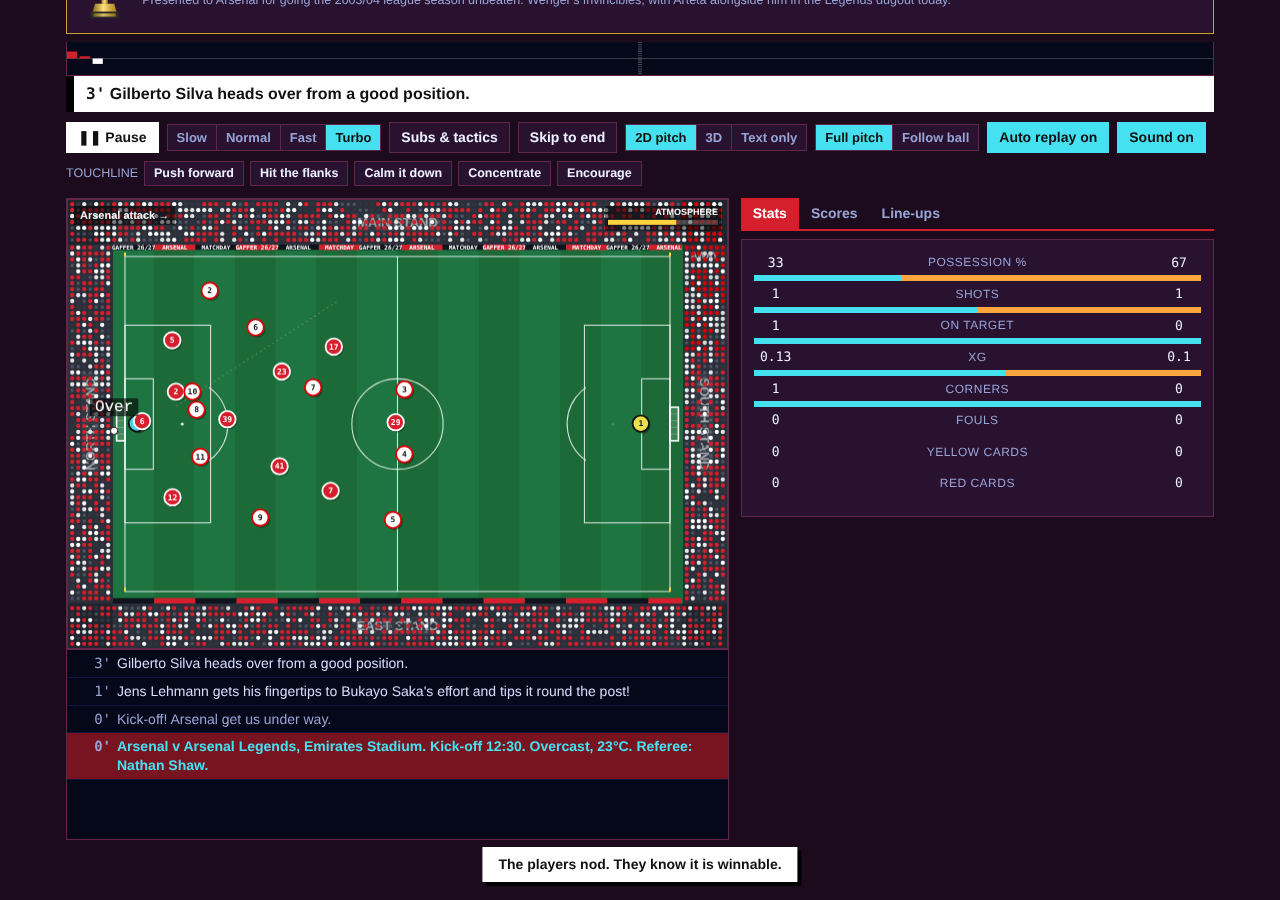
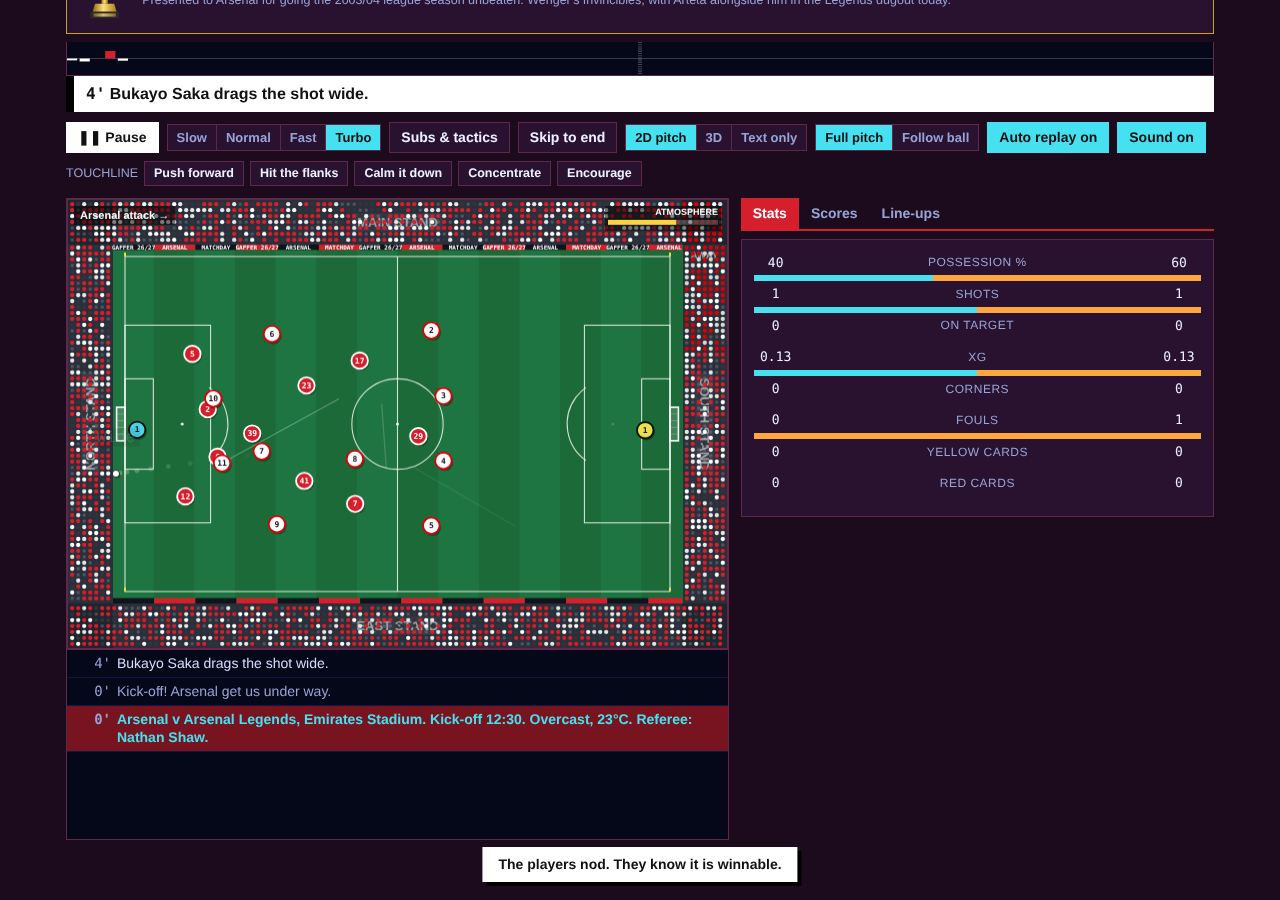
News for doubles, trebles, quadruples and beyond; cup ties, knockouts and friendlies no longer talk about league points
Claude-Session: https://claude.ai/code/session_01Axcqbbzp4druJBVmm3PMMF

diff --git a/gaffer.html b/gaffer.html
@@ -9328,10 +9328,10 @@ function interviewFor(M) {
   let q;
   if (red) q = `You had a man sent off. Was it the right decision from the referee?`;
   else if (won && gf - ga >= 3) q = `A big win. Was this your best performance of the season?`;
-  else if (won) q = `Three points. What pleased you most today?`;
+  else if (won) q = fxHasPoints(G.fx[M.fid] || { comp: M.comp }) ? `Three points. What pleased you most today?` : `A win today. What pleased you most?`;
   else if (lost && ga - gf >= 3) q = `That was a heavy defeat. What went wrong?`;
   else if (lost) q = `A disappointing result. How do you explain it?`;
-  else q = `A point today. Is that a fair result?`;
+  else q = fxHasPoints(G.fx[M.fid] || { comp: M.comp }) ? `A point today. Is that a fair result?` : `All square today. Is that a fair result?`;
   return { q, won, lost, star, worst, red };
 }
 function interviewAnswer(k) {
@@ -16964,6 +16964,42 @@ quickScore = function (h, a, neutral) {
   let k = 0; while (Math.abs(r[0] - r[1]) >= 4 && k++ < 4 && R.chance(k === 1 ? .65 : .5)) { if (r[0] > r[1]) r[0]--; else r[1]--; }
   const cap = 6 + (R.chance(.1) ? 1 : 0); if (r[0] - r[1] > cap) r[0] = r[1] + cap; if (r[1] - r[0] > cap) r[1] = r[0] + cap;
   return r;
+};
+
+// ---------- league points only where there are points: cup ties, knockouts and friendlies get cup wording ----------
+function fxHasPoints(f) {
+  if (!f) return true; const c = f.comp, r = String(f.rnd || '');
+  if (LEAGUE_COMPS.includes(c)) return true;
+  if (['UCL', 'UEL', 'UECL'].includes(c)) return /Matchday|League phase|Group/i.test(r);
+  if (['UNL', 'EQ', 'WCQ'].includes(c)) return true;
+  if (['WC', 'EURO', 'CA', 'AFCON', 'ACUP'].includes(c)) return /Group|Matchday/i.test(r);
+  return false;
+}
+let _noPts = false;
+const NOPTS_RX = [[/\bEasiest three points\b/gi, 'Easiest win'], [/\bThanks for the points\b/gi, 'Thanks for the easy night'], [/\bThree points, job done\b/g, 'Job done'], [/\bthree points\b/gi, 'the win'], [/\bA point\. Could be/g, 'All square. Could be'], [/\bTwo points dropped, simple as that\b/g, 'Should have won that, simple as that'], [/\bTwo points dropped\b/gi, 'Should have won that'], [/\bdropped points\b/gi, 'slipped up'], [/\bdrop points\b/gi, 'slip up'], [/\bCost us points\b/gi, 'Cost us the tie'], [/\bA point today\b/g, 'All square today']];
+function ptsFix(t) { if (!_noPts || typeof t !== 'string') return t; for (const [a, b] of NOPTS_RX) t = t.replace(a, b); return t; }
+const _postPL = post;
+post = function (o) { if (_noPts && o) o.t = ptsFix(o.t); return _postPL(o); };
+const _repPL = reply;
+reply = function (p, tid, text, who) { return _repPL(p, tid, ptsFix(text), who); };
+const _pmPL = postMatch;
+postMatch = function (f, pre) { const was = _noPts; _noPts = !fxHasPoints(f); try { return _pmPL(f, pre); } finally { _noPts = was; } };
+
+// ---------- doubles, trebles, quadruples ... ----------
+const MULTI = ['', '', 'Double', 'Treble', 'Quadruple', 'Quintuple', 'Sextuple', 'Septuple'];
+function seasonTrophies(tid) { const s = seasonLabel(G.year) + ' '; return (G.honours[tid] || []).filter(x => x.startsWith(s)).map(x => x.slice(s.length)).filter(n => !/Fair Play|gold trophy|Manager of|Player of/i.test(n)); }
+function multiStory(tid, list) {
+  const n = list.length; const word = MULTI[n] || `${n}-trophy haul`; const t = T(tid); const dom = list.every(x => !/Champions League|Europa|Conference|Cup Winners|Club World|Super Cup/.test(x));
+  const lg = list.some(x => /Premier League|La Liga|Serie A|Bundesliga|Ligue 1|Saudi Pro League|Championship/.test(x));
+  const label = dom && n === 2 ? (lg ? 'domestic Double' : 'cup Double') : dom && n === 3 ? 'domestic Treble' : word;
+  news(`${t.name}: the ${label}!`, `${t.name} have won the ${label} in ${seasonLabel(G.year)}: ${list.join(', ')}. ${n >= 4 ? `A ${word.toLowerCase()} is something very few clubs in history have achieved.` : n === 3 ? 'A treble season goes straight into the club\'s history books.' : 'Two trophies in one season.'} ${tid === G.user && n >= 3 ? `${G.mgr} joins the club's greatest managers.` : ''}`, tid, true);
+  try { const p = fanPost(tid, `${label.toUpperCase()} 🏆${'🏆'.repeat(Math.min(n, 6) - 1)} ${list.join(' + ')}. Say it with me: ${word.toUpperCase()}!!!`, { big: true, u: tid === G.user ? 1 : 0 }); const rv = typeof rivalsOf === 'function' ? rivalsOf(tid)[0] : null; if (rv) reply(p, rv, R.pick(['Calm down, it\'s only a ' + word.toLowerCase(), 'Asterisk*', 'Wake me up when it\'s a ' + (MULTI[n + 1] || 'bigger haul').toLowerCase() + ' 🙄'])); trend(word, 4); } catch (e) { }
+  if (tid === G.user) { G.board = clamp((G.board || 50) + 4, 0, 100); G.fans = clamp((G.fans ?? 60) + 5, 0, 100); }
+}
+const _honPL = honour;
+honour = function (tid, name) {
+  _honPL(tid, name);
+  try { const t = T(tid); if (!t || t.lite || t.nat || /Fair Play|gold trophy/i.test(name)) return; const list = seasonTrophies(tid); if (list.length >= 2) multiStory(tid, list); } catch (e) { console.error(e); }
 };
 
 // md3d.js: 3D matchday view. A third option next to "2D pitch" and "Text only". It draws the same live scene as the

diff --git a/index.html b/index.html
@@ -9343,10 +9343,10 @@ function interviewFor(M) {
   let q;
   if (red) q = `You had a man sent off. Was it the right decision from the referee?`;
   else if (won && gf - ga >= 3) q = `A big win. Was this your best performance of the season?`;
-  else if (won) q = `Three points. What pleased you most today?`;
+  else if (won) q = fxHasPoints(G.fx[M.fid] || { comp: M.comp }) ? `Three points. What pleased you most today?` : `A win today. What pleased you most?`;
   else if (lost && ga - gf >= 3) q = `That was a heavy defeat. What went wrong?`;
   else if (lost) q = `A disappointing result. How do you explain it?`;
-  else q = `A point today. Is that a fair result?`;
+  else q = fxHasPoints(G.fx[M.fid] || { comp: M.comp }) ? `A point today. Is that a fair result?` : `All square today. Is that a fair result?`;
   return { q, won, lost, star, worst, red };
 }
 function interviewAnswer(k) {
@@ -16979,6 +16979,42 @@ quickScore = function (h, a, neutral) {
   let k = 0; while (Math.abs(r[0] - r[1]) >= 4 && k++ < 4 && R.chance(k === 1 ? .65 : .5)) { if (r[0] > r[1]) r[0]--; else r[1]--; }
   const cap = 6 + (R.chance(.1) ? 1 : 0); if (r[0] - r[1] > cap) r[0] = r[1] + cap; if (r[1] - r[0] > cap) r[1] = r[0] + cap;
   return r;
+};
+
+// ---------- league points only where there are points: cup ties, knockouts and friendlies get cup wording ----------
+function fxHasPoints(f) {
+  if (!f) return true; const c = f.comp, r = String(f.rnd || '');
+  if (LEAGUE_COMPS.includes(c)) return true;
+  if (['UCL', 'UEL', 'UECL'].includes(c)) return /Matchday|League phase|Group/i.test(r);
+  if (['UNL', 'EQ', 'WCQ'].includes(c)) return true;
+  if (['WC', 'EURO', 'CA', 'AFCON', 'ACUP'].includes(c)) return /Group|Matchday/i.test(r);
+  return false;
+}
+let _noPts = false;
+const NOPTS_RX = [[/\bEasiest three points\b/gi, 'Easiest win'], [/\bThanks for the points\b/gi, 'Thanks for the easy night'], [/\bThree points, job done\b/g, 'Job done'], [/\bthree points\b/gi, 'the win'], [/\bA point\. Could be/g, 'All square. Could be'], [/\bTwo points dropped, simple as that\b/g, 'Should have won that, simple as that'], [/\bTwo points dropped\b/gi, 'Should have won that'], [/\bdropped points\b/gi, 'slipped up'], [/\bdrop points\b/gi, 'slip up'], [/\bCost us points\b/gi, 'Cost us the tie'], [/\bA point today\b/g, 'All square today']];
+function ptsFix(t) { if (!_noPts || typeof t !== 'string') return t; for (const [a, b] of NOPTS_RX) t = t.replace(a, b); return t; }
+const _postPL = post;
+post = function (o) { if (_noPts && o) o.t = ptsFix(o.t); return _postPL(o); };
+const _repPL = reply;
+reply = function (p, tid, text, who) { return _repPL(p, tid, ptsFix(text), who); };
+const _pmPL = postMatch;
+postMatch = function (f, pre) { const was = _noPts; _noPts = !fxHasPoints(f); try { return _pmPL(f, pre); } finally { _noPts = was; } };
+
+// ---------- doubles, trebles, quadruples ... ----------
+const MULTI = ['', '', 'Double', 'Treble', 'Quadruple', 'Quintuple', 'Sextuple', 'Septuple'];
+function seasonTrophies(tid) { const s = seasonLabel(G.year) + ' '; return (G.honours[tid] || []).filter(x => x.startsWith(s)).map(x => x.slice(s.length)).filter(n => !/Fair Play|gold trophy|Manager of|Player of/i.test(n)); }
+function multiStory(tid, list) {
+  const n = list.length; const word = MULTI[n] || `${n}-trophy haul`; const t = T(tid); const dom = list.every(x => !/Champions League|Europa|Conference|Cup Winners|Club World|Super Cup/.test(x));
+  const lg = list.some(x => /Premier League|La Liga|Serie A|Bundesliga|Ligue 1|Saudi Pro League|Championship/.test(x));
+  const label = dom && n === 2 ? (lg ? 'domestic Double' : 'cup Double') : dom && n === 3 ? 'domestic Treble' : word;
+  news(`${t.name}: the ${label}!`, `${t.name} have won the ${label} in ${seasonLabel(G.year)}: ${list.join(', ')}. ${n >= 4 ? `A ${word.toLowerCase()} is something very few clubs in history have achieved.` : n === 3 ? 'A treble season goes straight into the club\'s history books.' : 'Two trophies in one season.'} ${tid === G.user && n >= 3 ? `${G.mgr} joins the club's greatest managers.` : ''}`, tid, true);
+  try { const p = fanPost(tid, `${label.toUpperCase()} 🏆${'🏆'.repeat(Math.min(n, 6) - 1)} ${list.join(' + ')}. Say it with me: ${word.toUpperCase()}!!!`, { big: true, u: tid === G.user ? 1 : 0 }); const rv = typeof rivalsOf === 'function' ? rivalsOf(tid)[0] : null; if (rv) reply(p, rv, R.pick(['Calm down, it\'s only a ' + word.toLowerCase(), 'Asterisk*', 'Wake me up when it\'s a ' + (MULTI[n + 1] || 'bigger haul').toLowerCase() + ' 🙄'])); trend(word, 4); } catch (e) { }
+  if (tid === G.user) { G.board = clamp((G.board || 50) + 4, 0, 100); G.fans = clamp((G.fans ?? 60) + 5, 0, 100); }
+}
+const _honPL = honour;
+honour = function (tid, name) {
+  _honPL(tid, name);
+  try { const t = T(tid); if (!t || t.lite || t.nat || /Fair Play|gold trophy/i.test(name)) return; const list = seasonTrophies(tid); if (list.length >= 2) multiStory(tid, list); } catch (e) { console.error(e); }
 };
 
 // md3d.js: 3D matchday view. A third option next to "2D pitch" and "Text only". It draws the same live scene as the

diff --git a/wrap.html b/wrap.html
@@ -9328,10 +9328,10 @@ function interviewFor(M) {
   let q;
   if (red) q = `You had a man sent off. Was it the right decision from the referee?`;
   else if (won && gf - ga >= 3) q = `A big win. Was this your best performance of the season?`;
-  else if (won) q = `Three points. What pleased you most today?`;
+  else if (won) q = fxHasPoints(G.fx[M.fid] || { comp: M.comp }) ? `Three points. What pleased you most today?` : `A win today. What pleased you most?`;
   else if (lost && ga - gf >= 3) q = `That was a heavy defeat. What went wrong?`;
   else if (lost) q = `A disappointing result. How do you explain it?`;
-  else q = `A point today. Is that a fair result?`;
+  else q = fxHasPoints(G.fx[M.fid] || { comp: M.comp }) ? `A point today. Is that a fair result?` : `All square today. Is that a fair result?`;
   return { q, won, lost, star, worst, red };
 }
 function interviewAnswer(k) {
@@ -16964,6 +16964,42 @@ quickScore = function (h, a, neutral) {
   let k = 0; while (Math.abs(r[0] - r[1]) >= 4 && k++ < 4 && R.chance(k === 1 ? .65 : .5)) { if (r[0] > r[1]) r[0]--; else r[1]--; }
   const cap = 6 + (R.chance(.1) ? 1 : 0); if (r[0] - r[1] > cap) r[0] = r[1] + cap; if (r[1] - r[0] > cap) r[1] = r[0] + cap;
   return r;
+};
+
+// ---------- league points only where there are points: cup ties, knockouts and friendlies get cup wording ----------
+function fxHasPoints(f) {
+  if (!f) return true; const c = f.comp, r = String(f.rnd || '');
+  if (LEAGUE_COMPS.includes(c)) return true;
+  if (['UCL', 'UEL', 'UECL'].includes(c)) return /Matchday|League phase|Group/i.test(r);
+  if (['UNL', 'EQ', 'WCQ'].includes(c)) return true;
+  if (['WC', 'EURO', 'CA', 'AFCON', 'ACUP'].includes(c)) return /Group|Matchday/i.test(r);
+  return false;
+}
+let _noPts = false;
+const NOPTS_RX = [[/\bEasiest three points\b/gi, 'Easiest win'], [/\bThanks for the points\b/gi, 'Thanks for the easy night'], [/\bThree points, job done\b/g, 'Job done'], [/\bthree points\b/gi, 'the win'], [/\bA point\. Could be/g, 'All square. Could be'], [/\bTwo points dropped, simple as that\b/g, 'Should have won that, simple as that'], [/\bTwo points dropped\b/gi, 'Should have won that'], [/\bdropped points\b/gi, 'slipped up'], [/\bdrop points\b/gi, 'slip up'], [/\bCost us points\b/gi, 'Cost us the tie'], [/\bA point today\b/g, 'All square today']];
+function ptsFix(t) { if (!_noPts || typeof t !== 'string') return t; for (const [a, b] of NOPTS_RX) t = t.replace(a, b); return t; }
+const _postPL = post;
+post = function (o) { if (_noPts && o) o.t = ptsFix(o.t); return _postPL(o); };
+const _repPL = reply;
+reply = function (p, tid, text, who) { return _repPL(p, tid, ptsFix(text), who); };
+const _pmPL = postMatch;
+postMatch = function (f, pre) { const was = _noPts; _noPts = !fxHasPoints(f); try { return _pmPL(f, pre); } finally { _noPts = was; } };
+
+// ---------- doubles, trebles, quadruples ... ----------
+const MULTI = ['', '', 'Double', 'Treble', 'Quadruple', 'Quintuple', 'Sextuple', 'Septuple'];
+function seasonTrophies(tid) { const s = seasonLabel(G.year) + ' '; return (G.honours[tid] || []).filter(x => x.startsWith(s)).map(x => x.slice(s.length)).filter(n => !/Fair Play|gold trophy|Manager of|Player of/i.test(n)); }
+function multiStory(tid, list) {
+  const n = list.length; const word = MULTI[n] || `${n}-trophy haul`; const t = T(tid); const dom = list.every(x => !/Champions League|Europa|Conference|Cup Winners|Club World|Super Cup/.test(x));
+  const lg = list.some(x => /Premier League|La Liga|Serie A|Bundesliga|Ligue 1|Saudi Pro League|Championship/.test(x));
+  const label = dom && n === 2 ? (lg ? 'domestic Double' : 'cup Double') : dom && n === 3 ? 'domestic Treble' : word;
+  news(`${t.name}: the ${label}!`, `${t.name} have won the ${label} in ${seasonLabel(G.year)}: ${list.join(', ')}. ${n >= 4 ? `A ${word.toLowerCase()} is something very few clubs in history have achieved.` : n === 3 ? 'A treble season goes straight into the club\'s history books.' : 'Two trophies in one season.'} ${tid === G.user && n >= 3 ? `${G.mgr} joins the club's greatest managers.` : ''}`, tid, true);
+  try { const p = fanPost(tid, `${label.toUpperCase()} 🏆${'🏆'.repeat(Math.min(n, 6) - 1)} ${list.join(' + ')}. Say it with me: ${word.toUpperCase()}!!!`, { big: true, u: tid === G.user ? 1 : 0 }); const rv = typeof rivalsOf === 'function' ? rivalsOf(tid)[0] : null; if (rv) reply(p, rv, R.pick(['Calm down, it\'s only a ' + word.toLowerCase(), 'Asterisk*', 'Wake me up when it\'s a ' + (MULTI[n + 1] || 'bigger haul').toLowerCase() + ' 🙄'])); trend(word, 4); } catch (e) { }
+  if (tid === G.user) { G.board = clamp((G.board || 50) + 4, 0, 100); G.fans = clamp((G.fans ?? 60) + 5, 0, 100); }
+}
+const _honPL = honour;
+honour = function (tid, name) {
+  _honPL(tid, name);
+  try { const t = T(tid); if (!t || t.lite || t.nat || /Fair Play|gold trophy/i.test(name)) return; const list = seasonTrophies(tid); if (list.length >= 2) multiStory(tid, list); } catch (e) { console.error(e); }
 };
 
 // md3d.js: 3D matchday view. A third option next to "2D pitch" and "Text only". It draws the same live scene as the

diff --git a/src/polish.js b/src/polish.js
@@ -128,3 +128,39 @@ quickScore = function (h, a, neutral) {
   const cap = 6 + (R.chance(.1) ? 1 : 0); if (r[0] - r[1] > cap) r[0] = r[1] + cap; if (r[1] - r[0] > cap) r[1] = r[0] + cap;
   return r;
 };
+
+// ---------- league points only where there are points: cup ties, knockouts and friendlies get cup wording ----------
+function fxHasPoints(f) {
+  if (!f) return true; const c = f.comp, r = String(f.rnd || '');
+  if (LEAGUE_COMPS.includes(c)) return true;
+  if (['UCL', 'UEL', 'UECL'].includes(c)) return /Matchday|League phase|Group/i.test(r);
+  if (['UNL', 'EQ', 'WCQ'].includes(c)) return true;
+  if (['WC', 'EURO', 'CA', 'AFCON', 'ACUP'].includes(c)) return /Group|Matchday/i.test(r);
+  return false;
+}
+let _noPts = false;
+const NOPTS_RX = [[/\bEasiest three points\b/gi, 'Easiest win'], [/\bThanks for the points\b/gi, 'Thanks for the easy night'], [/\bThree points, job done\b/g, 'Job done'], [/\bthree points\b/gi, 'the win'], [/\bA point\. Could be/g, 'All square. Could be'], [/\bTwo points dropped, simple as that\b/g, 'Should have won that, simple as that'], [/\bTwo points dropped\b/gi, 'Should have won that'], [/\bdropped points\b/gi, 'slipped up'], [/\bdrop points\b/gi, 'slip up'], [/\bCost us points\b/gi, 'Cost us the tie'], [/\bA point today\b/g, 'All square today']];
+function ptsFix(t) { if (!_noPts || typeof t !== 'string') return t; for (const [a, b] of NOPTS_RX) t = t.replace(a, b); return t; }
+const _postPL = post;
+post = function (o) { if (_noPts && o) o.t = ptsFix(o.t); return _postPL(o); };
+const _repPL = reply;
+reply = function (p, tid, text, who) { return _repPL(p, tid, ptsFix(text), who); };
+const _pmPL = postMatch;
+postMatch = function (f, pre) { const was = _noPts; _noPts = !fxHasPoints(f); try { return _pmPL(f, pre); } finally { _noPts = was; } };
+
+// ---------- doubles, trebles, quadruples ... ----------
+const MULTI = ['', '', 'Double', 'Treble', 'Quadruple', 'Quintuple', 'Sextuple', 'Septuple'];
+function seasonTrophies(tid) { const s = seasonLabel(G.year) + ' '; return (G.honours[tid] || []).filter(x => x.startsWith(s)).map(x => x.slice(s.length)).filter(n => !/Fair Play|gold trophy|Manager of|Player of/i.test(n)); }
+function multiStory(tid, list) {
+  const n = list.length; const word = MULTI[n] || `${n}-trophy haul`; const t = T(tid); const dom = list.every(x => !/Champions League|Europa|Conference|Cup Winners|Club World|Super Cup/.test(x));
+  const lg = list.some(x => /Premier League|La Liga|Serie A|Bundesliga|Ligue 1|Saudi Pro League|Championship/.test(x));
+  const label = dom && n === 2 ? (lg ? 'domestic Double' : 'cup Double') : dom && n === 3 ? 'domestic Treble' : word;
+  news(`${t.name}: the ${label}!`, `${t.name} have won the ${label} in ${seasonLabel(G.year)}: ${list.join(', ')}. ${n >= 4 ? `A ${word.toLowerCase()} is something very few clubs in history have achieved.` : n === 3 ? 'A treble season goes straight into the club\'s history books.' : 'Two trophies in one season.'} ${tid === G.user && n >= 3 ? `${G.mgr} joins the club's greatest managers.` : ''}`, tid, true);
+  try { const p = fanPost(tid, `${label.toUpperCase()} 🏆${'🏆'.repeat(Math.min(n, 6) - 1)} ${list.join(' + ')}. Say it with me: ${word.toUpperCase()}!!!`, { big: true, u: tid === G.user ? 1 : 0 }); const rv = typeof rivalsOf === 'function' ? rivalsOf(tid)[0] : null; if (rv) reply(p, rv, R.pick(['Calm down, it\'s only a ' + word.toLowerCase(), 'Asterisk*', 'Wake me up when it\'s a ' + (MULTI[n + 1] || 'bigger haul').toLowerCase() + ' 🙄'])); trend(word, 4); } catch (e) { }
+  if (tid === G.user) { G.board = clamp((G.board || 50) + 4, 0, 100); G.fans = clamp((G.fans ?? 60) + 5, 0, 100); }
+}
+const _honPL = honour;
+honour = function (tid, name) {
+  _honPL(tid, name);
+  try { const t = T(tid); if (!t || t.lite || t.nat || /Fair Play|gold trophy/i.test(name)) return; const list = seasonTrophies(tid); if (list.length >= 2) multiStory(tid, list); } catch (e) { console.error(e); }
+};

diff --git a/tests/multi_test.js b/tests/multi_test.js
@@ -1,0 +1,20 @@
+// DFB-Pokal / Coupe de France: draw, screen, and an old save (no cups) migrating mid-season
+const fs = require('fs');
+const files = fs.readFileSync('build.py', 'utf8').match(/\[(.*?)\]/)[1].split(',').map(s => s.trim().replace(/'/g, '')).filter(f => f !== 'boot.js' && f !== 'intro.js');
+const el = () => ({ style: {}, classList: { add() { }, remove() { }, toggle() { } }, addEventListener() { }, appendChild() { }, setAttribute() { }, querySelector() { return null; }, querySelectorAll() { return []; }, getContext() { return null; }, innerHTML: '' });
+global.window = global; global.document = { addEventListener() { }, getElementById() { return null; }, querySelector() { return null; }, querySelectorAll() { return []; }, createElement: el, body: el(), documentElement: el() };
+global.localStorage = { setItem() { }, getItem() { return null; }, removeItem() { } };
+global.navigator = { userAgent: 'node' }; global.requestAnimationFrame = () => 0; global.matchMedia = () => ({ matches: false });
+(0, eval)(files.map(f => fs.readFileSync('src/' + f, 'utf8')).join('\n') + `
+;toast = () => {}; render = () => {};
+newGame('ARS', 'T');
+for (const n of ['Carabao Cup', 'FA Cup', 'Premier League', 'Champions League']) honour('ARS', n);
+console.log(G.news.filter(n => /Double|Treble|Quadruple/.test(n.title)).map(n => n.title + ' :: ' + n.body).reverse().join('\\n'));
+console.log('points rules:', fxHasPoints({ comp: 'PL' }), fxHasPoints({ comp: 'FA', rnd: 'Third round' }), fxHasPoints({ comp: 'UCL', rnd: 'Matchday 3' }), fxHasPoints({ comp: 'UCL', rnd: 'Round of 16' }), fxHasPoints({ comp: 'PSF' }));
+// a real cup tie through the whole post-match pipeline: no league-points wording in the feed
+const f = Object.values(G.fx).find(x => x.comp === 'FA' || x.comp === 'LC') || addFx({ comp: 'FA', d: G.date, h: 'ARS', a: 'TOT', rnd: 'Third round' });
+f.h = 'ARS'; f.a = 'TOT'; const n0 = G.feedId || 0;
+for (let k = 0; k < 25; k++) { f.r = k % 3 ? [2, 1] : [1, 1]; f.pen = k % 3 ? null : [4, 3]; f.rt = [[], []]; try { postMatch(f, preMatch(f)); } catch (e) { } }
+const posts = G.feed.filter(p => p.id > n0); const bad = posts.filter(p => /three points|points dropped|drop points|the points/i.test(p.t + ' ' + (p.rep || []).map(r => r.t).join(' ')));
+console.log('cup-tie posts', posts.length, 'with league-points wording', bad.length, bad.slice(0, 2).map(p => p.t).join(' | '));
+`);

diff --git a/src/dyn.js b/src/dyn.js
@@ -162,10 +162,10 @@ function interviewFor(M) {
   let q;
   if (red) q = `You had a man sent off. Was it the right decision from the referee?`;
   else if (won && gf - ga >= 3) q = `A big win. Was this your best performance of the season?`;
-  else if (won) q = `Three points. What pleased you most today?`;
+  else if (won) q = fxHasPoints(G.fx[M.fid] || { comp: M.comp }) ? `Three points. What pleased you most today?` : `A win today. What pleased you most?`;
   else if (lost && ga - gf >= 3) q = `That was a heavy defeat. What went wrong?`;
   else if (lost) q = `A disappointing result. How do you explain it?`;
-  else q = `A point today. Is that a fair result?`;
+  else q = fxHasPoints(G.fx[M.fid] || { comp: M.comp }) ? `A point today. Is that a fair result?` : `All square today. Is that a fair result?`;
   return { q, won, lost, star, worst, red };
 }
 function interviewAnswer(k) {

diff --git a/sw.js b/sw.js
@@ -1,5 +1,5 @@
 // GAFFER service worker. Version changes on every build so phones pick up updates.
-const CACHE = 'gaffer-77d7babdf5';
+const CACHE = 'gaffer-672f94da80';
 const CORE = ['./', 'index.html', 'manifest.webmanifest', 'icons/icon-192.png', 'icons/icon-512.png', 'icons/apple-touch-icon.png'];
 self.addEventListener('install', e => {
   e.waitUntil(caches.open(CACHE).then(c => c.addAll(CORE)).then(() => self.skipWaiting()));
